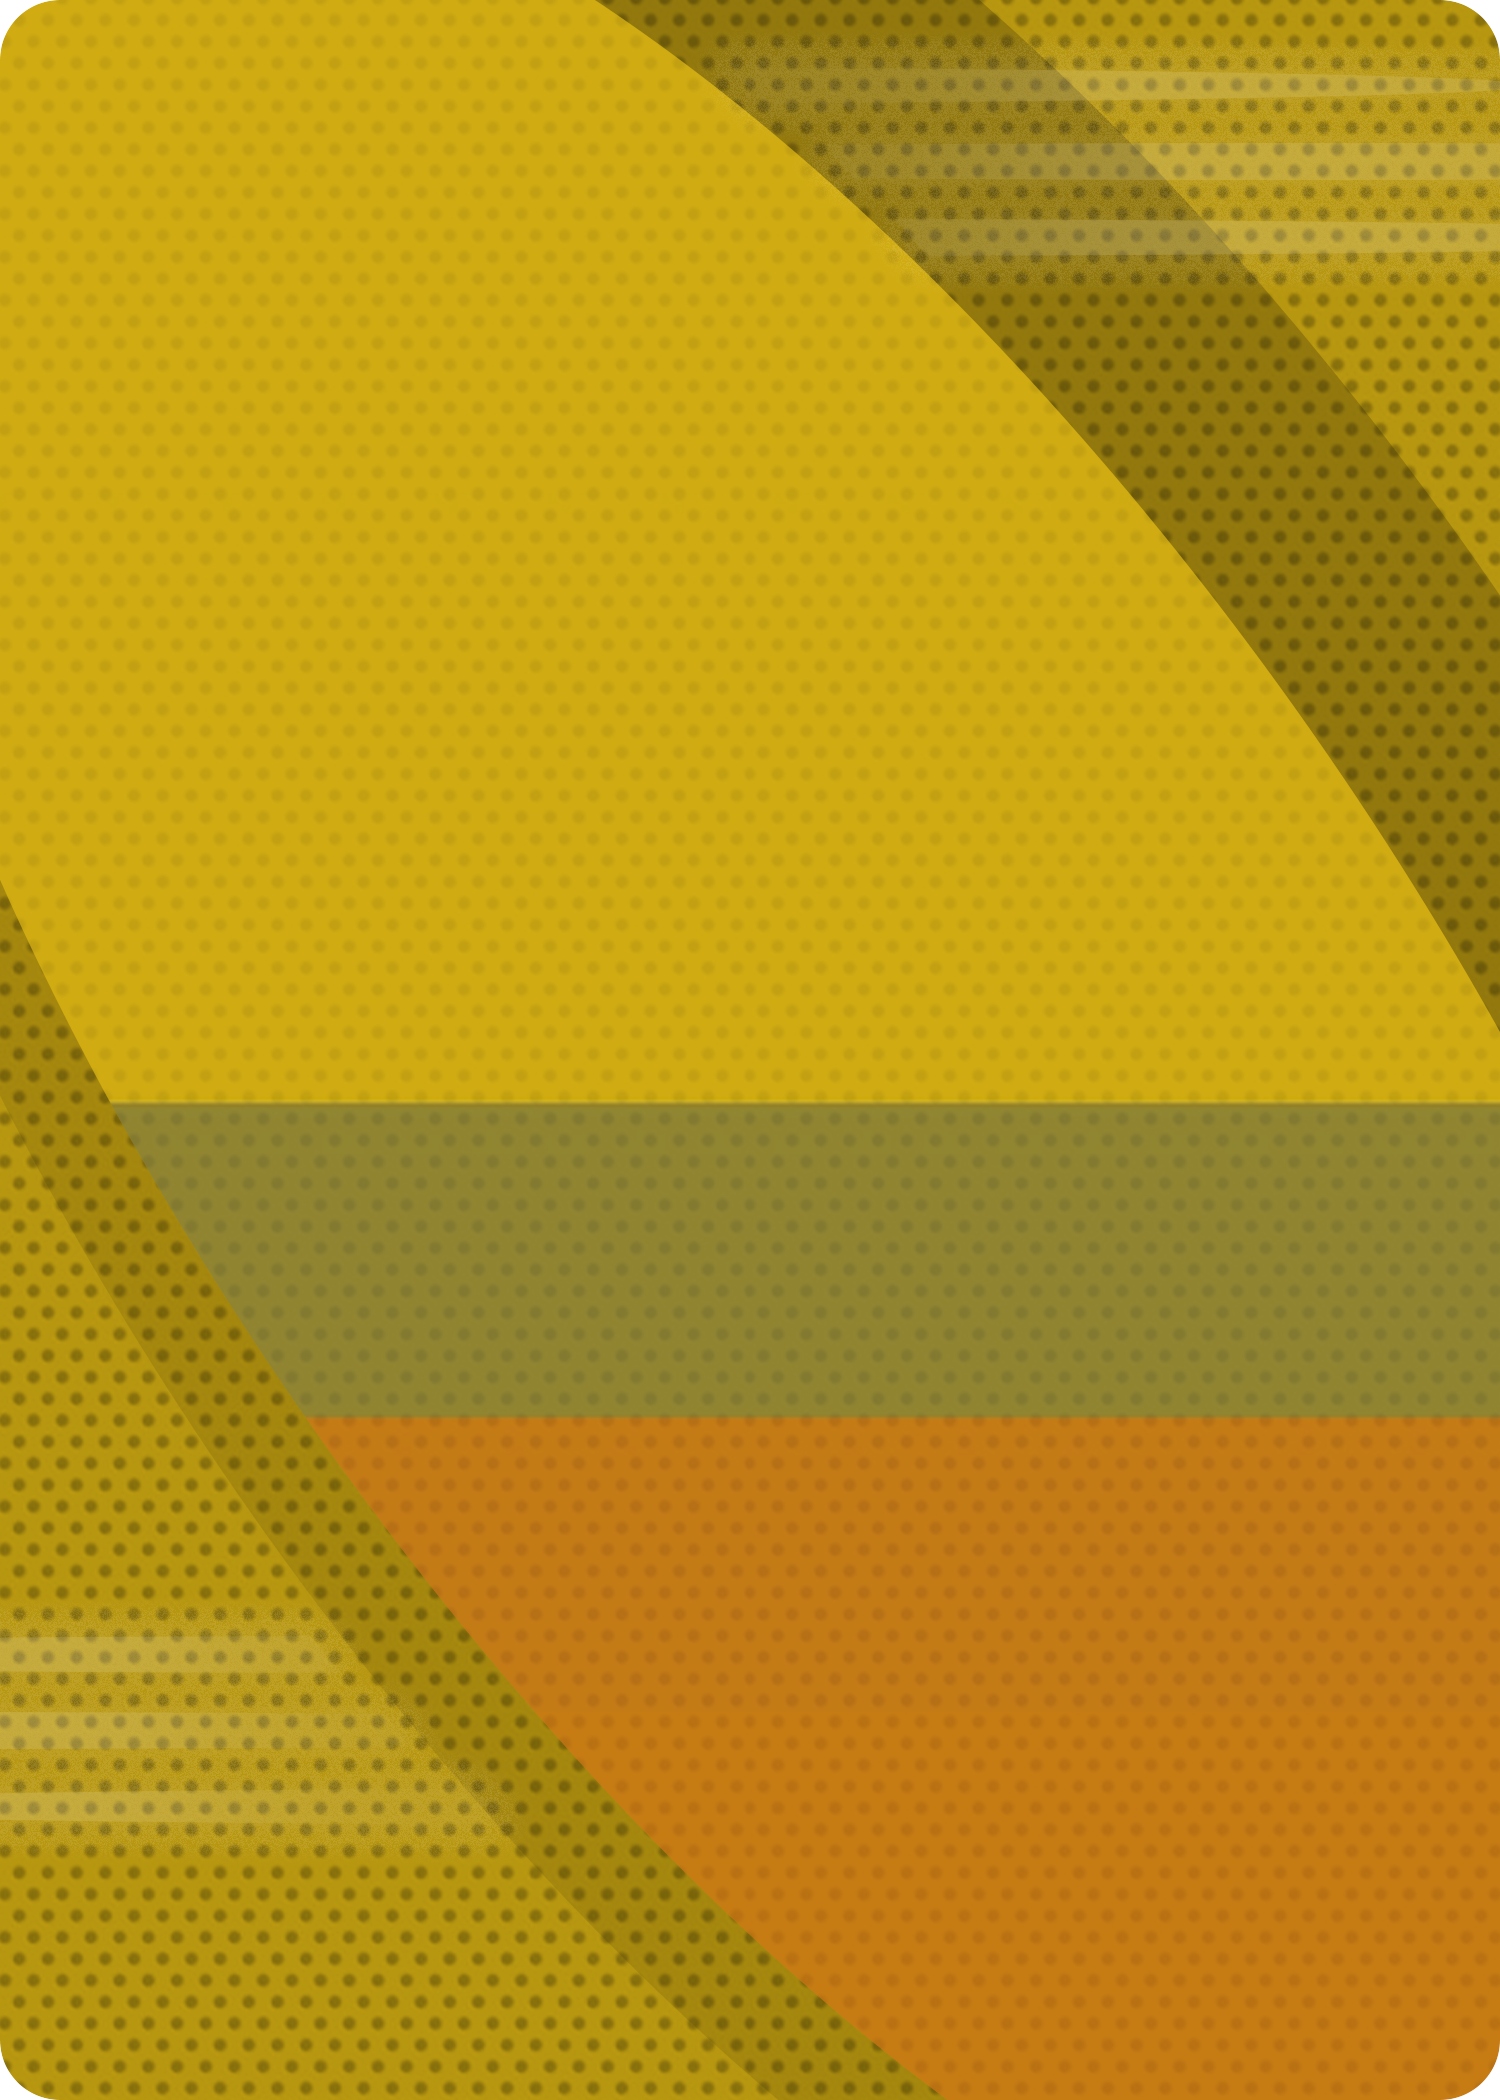
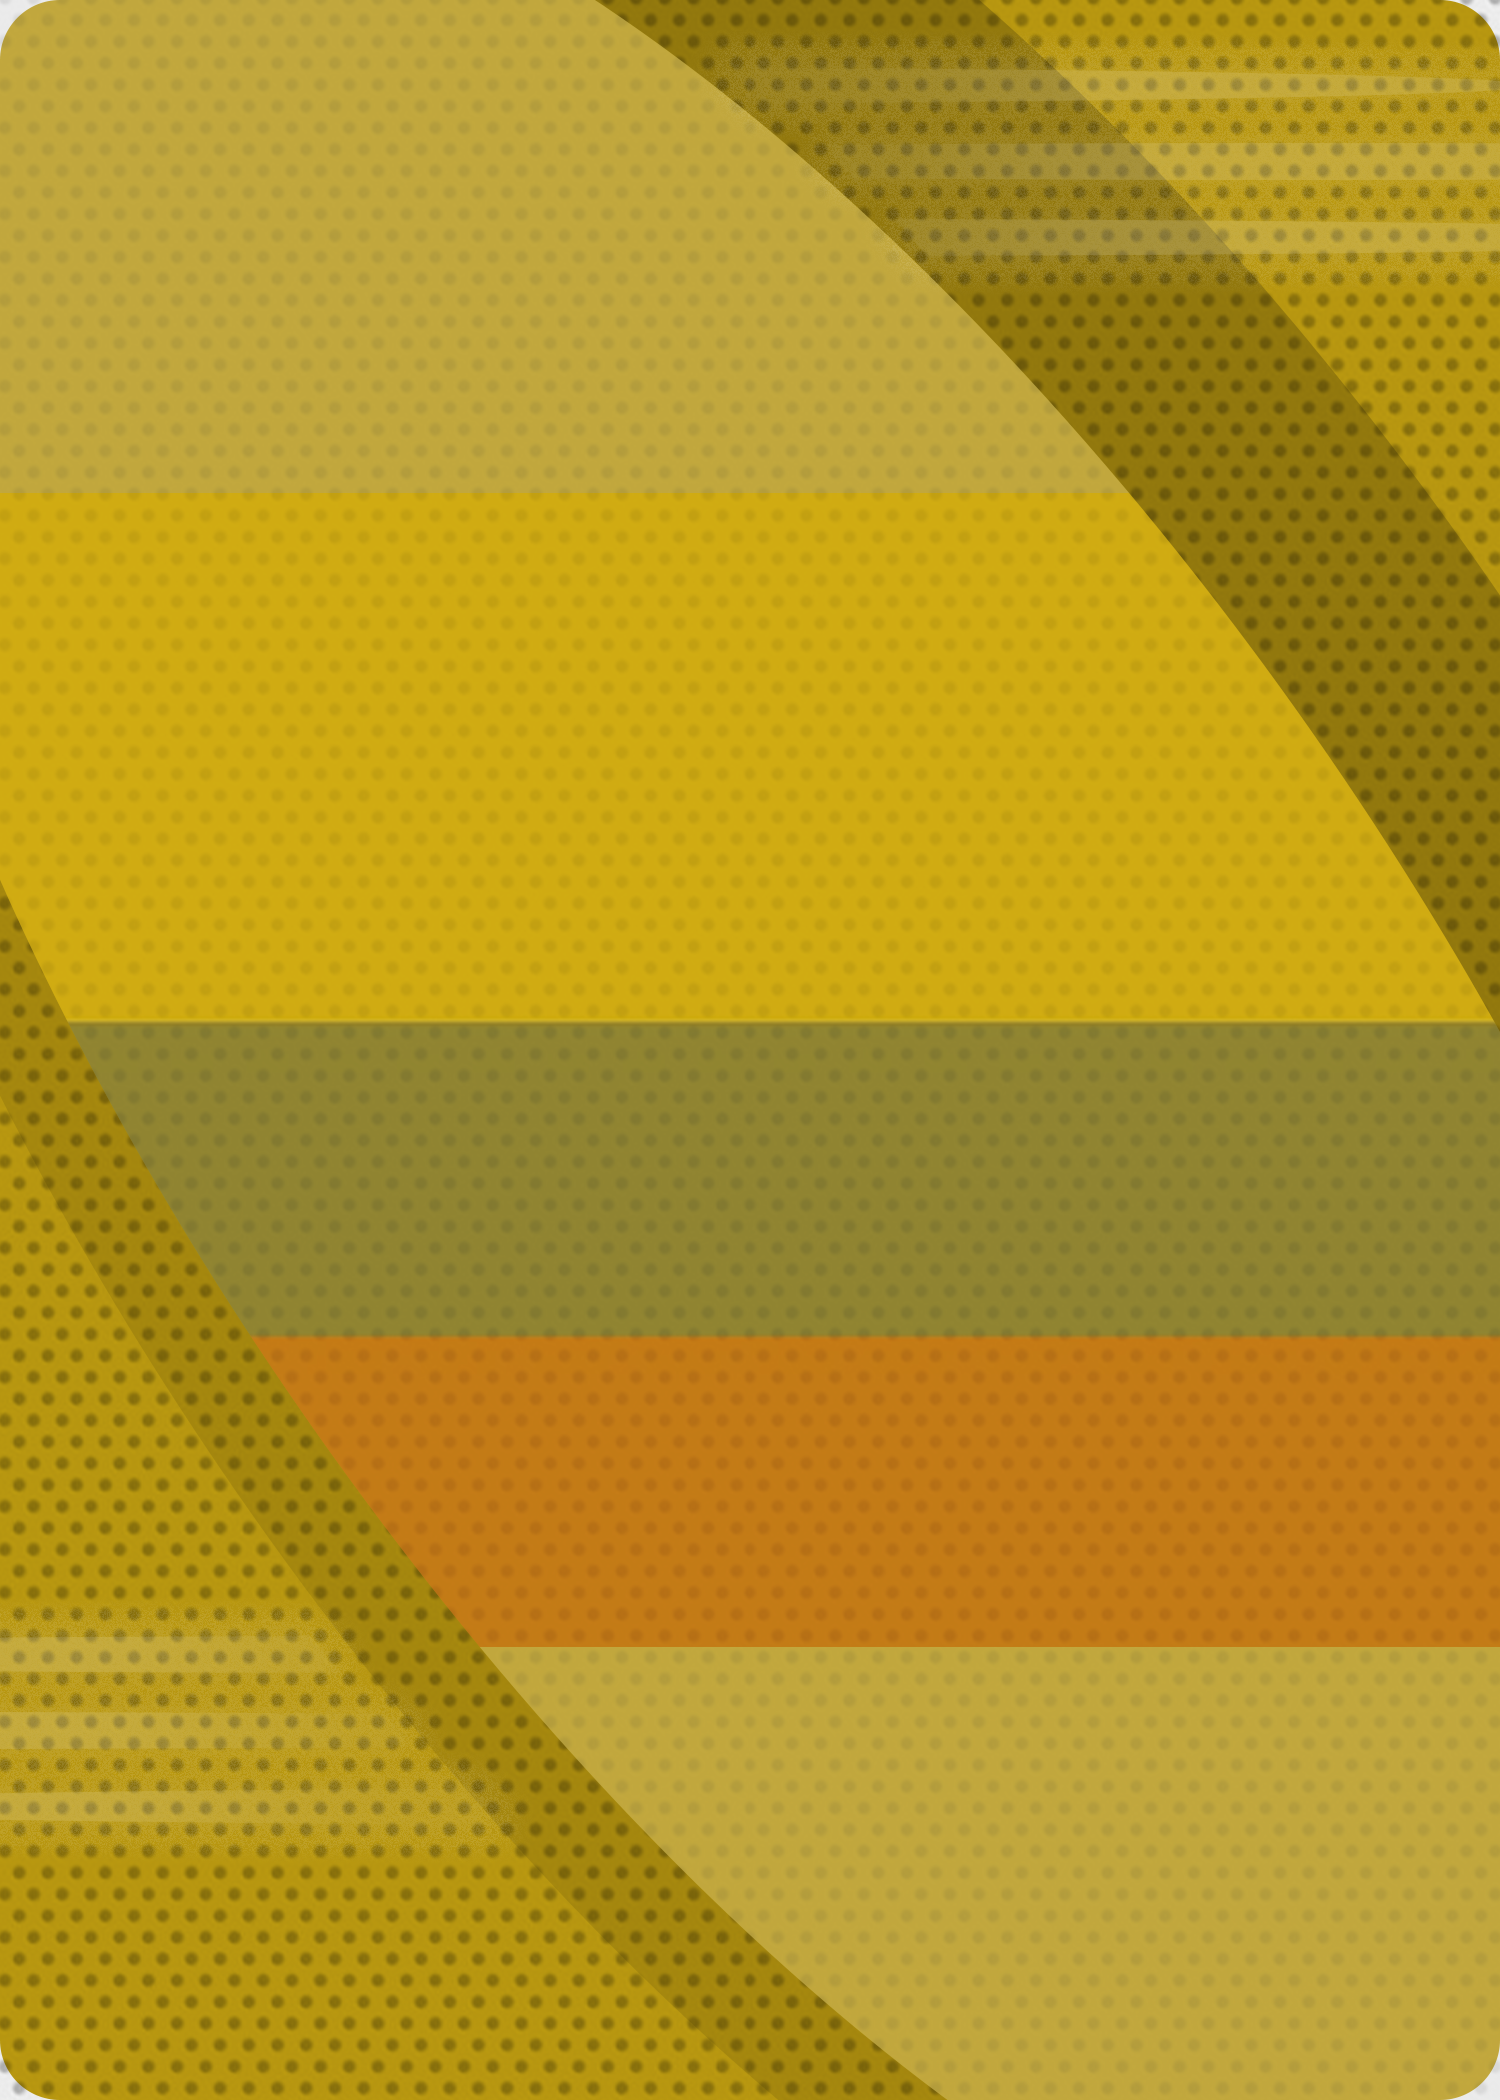
Update WBC Colors

diff --git a/mlb_showdown_bot/core/card/sets.py b/mlb_showdown_bot/core/card/sets.py
@@ -1119,13 +1119,18 @@ class Set(str, Enum):
     def player_image_crop_adjustment(self, special_edition:SpecialEdition = SpecialEdition.NONE) -> tuple[int,int]:
 
         # SPECIAL CASES
-        if special_edition in [SpecialEdition.ASG_2024]:
-            match self:
-                case Set._2000: return (-35,-460) # MATCH 01 IF ASG
-                case Set._2004 | Set._2005: return (0, int((self.player_image_crop_size(special_edition)[1] - 2100) / 2))
-        if special_edition in [SpecialEdition.ASG_2025]:
-            match self:
-                case Set._2000 | Set._2001: return (25,-400) # 2025 ASG HAS LOTS OF SPACE TO THE LEFT SIDE
+        match special_edition:
+            case SpecialEdition.WBC:
+                match self:
+                    case Set._2000: return (45,-300) # MOVE TO LEFT A BIT
+                    case Set._2001: return (35,-460) # MOVE TO LEFT A BIT
+            case SpecialEdition.ASG_2024:
+                match self:
+                    case Set._2000: return (-35,-460) # MATCH 01 IF ASG
+                    case Set._2004 | Set._2005: return (0, int((self.player_image_crop_size(special_edition)[1] - 2100) / 2))
+            case SpecialEdition.ASG_2025:
+                match self:
+                    case Set._2000 | Set._2001: return (25,-400) # 2025 ASG HAS LOTS OF SPACE TO THE LEFT SIDE
 
         match self.value:
             case '2000': return (-25,-300)
@@ -1264,7 +1269,7 @@ class Set(str, Enum):
                     match special_edition:
                         case SpecialEdition.ASG_2024: return (360, 1565)
                         case SpecialEdition.ASG_2025: return (360, 1600)
-                        case SpecialEdition.WBC: return (105, 1600)
+                        case SpecialEdition.WBC: return (80, 1600)
                 match self.value:
                     case '2000': return (137,0)
                     case '2001': return (105,0)

diff --git a/mlb_showdown_bot/core/card/showdown_player_card.py b/mlb_showdown_bot/core/card/showdown_player_card.py
@@ -3791,7 +3791,7 @@ class ShowdownPlayerCard(BaseModel):
             case SpecialEdition.WBC:
                 # FOR WBC, USE CUSTOM FONT AND ADD THE COUNTRY FLAG NEXT TO THE NAME
                 name_font_path = self._font_path('WBC-Font', extension='otf')
-                flag_and_name_img = Image.new('RGBA', (950, 250))
+                flag_and_name_img = Image.new('RGBA', (1000, 250))
 
                 # LOAD AND PASTE TEAM LOGO
                 team_logo = self._team_logo_image(ignore_dynamic_elements=True)[0]
@@ -3811,7 +3811,7 @@ class ShowdownPlayerCard(BaseModel):
                     )
                     
                     text = self._text_image(text=name_part, size=(700, 250), font=new_name_font, fill="#ffffff")
-                    paste_location = (235, 0) if name_part == first else (235, int( 55 + (75 * (1-name_length_multiplier)) ))
+                    paste_location = (255, 0) if name_part == first else (255, int( 55 + (75 * (1-name_length_multiplier)) ))
                     flag_and_name_img.paste(text, paste_location, text)
 
                 # ADD DROP SHADOW
@@ -5651,7 +5651,7 @@ class ShowdownPlayerCard(BaseModel):
         # WBC/NATIONALITY SPECIAL EDITIONS
         is_wbc = self.image.special_edition == SpecialEdition.WBC and self.wbc_team and self.wbc_year
         if is_wbc or self.image.special_edition == SpecialEdition.NATIONALITY:
-            components_dict = { c:v for c, v in special_components_for_context.items() if not c not in [PlayerImageComponent.NAME_CONTAINER_2000, PlayerImageComponent.BACKGROUND] }
+            components_dict = { c:v for c, v in special_components_for_context.items() if c not in [PlayerImageComponent.NAME_CONTAINER_2000, PlayerImageComponent.BACKGROUND] }
             components_dict.update({
                 PlayerImageComponent.GLOW: None,
             })

diff --git a/mlb_showdown_bot/core/card/card_generation.py b/mlb_showdown_bot/core/card/card_generation.py
@@ -216,9 +216,6 @@ def generate_card(**kwargs) -> dict[str, Any]:
                 kwargs.pop('edition', None)
                 stats['warnings'] = stats.get('warnings', []) + ["Could not find WBC team for this player in the database. Double check the player was a part of a WBC roster in the year provided or following year."]
 
-        # kwargs['wbc_team'] = 'CAN'
-        # kwargs['wbc_year'] = 2017
-
         # PROCESS CARD
         image_source = ImageSource(**kwargs)
         image = ShowdownImage(source=image_source, **kwargs)

diff --git a/mlb_showdown_bot/core/shared/nationality.py b/mlb_showdown_bot/core/shared/nationality.py
@@ -275,6 +275,14 @@ class WBCTeam(Enum):
                 (255, 223, 1, 255), # YELLOW
                 (1, 84, 158, 255), # BLUE
             ]
+            case WBCTeam.ITA: return [
+                (8, 94, 153, 255), # BLUE
+                (239, 73, 66, 255), # RED
+            ]
+            case WBCTeam.NED: return [
+                (244, 124, 49, 255), # ORANGE
+                (0, 0, 0, 255), # BLACK
+            ]
             case _: 
                 return self.nationality.colors
 
